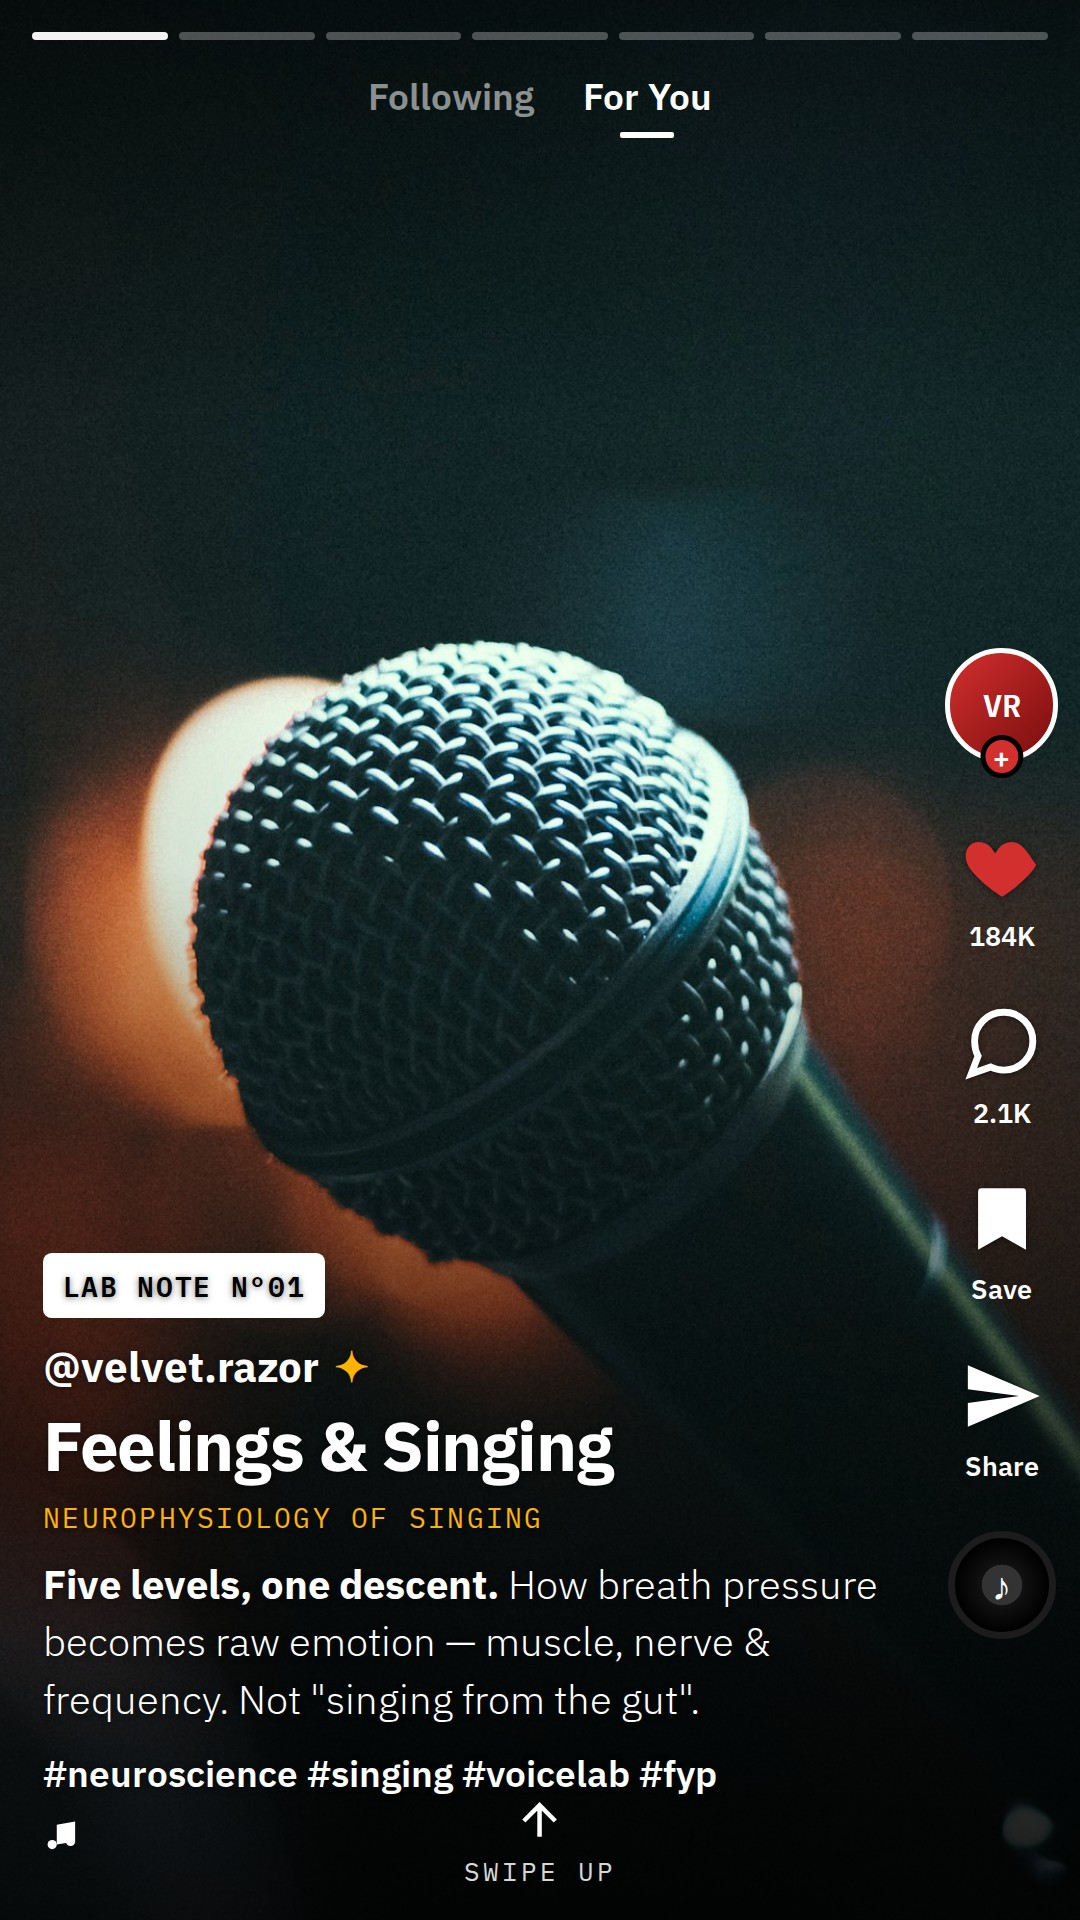
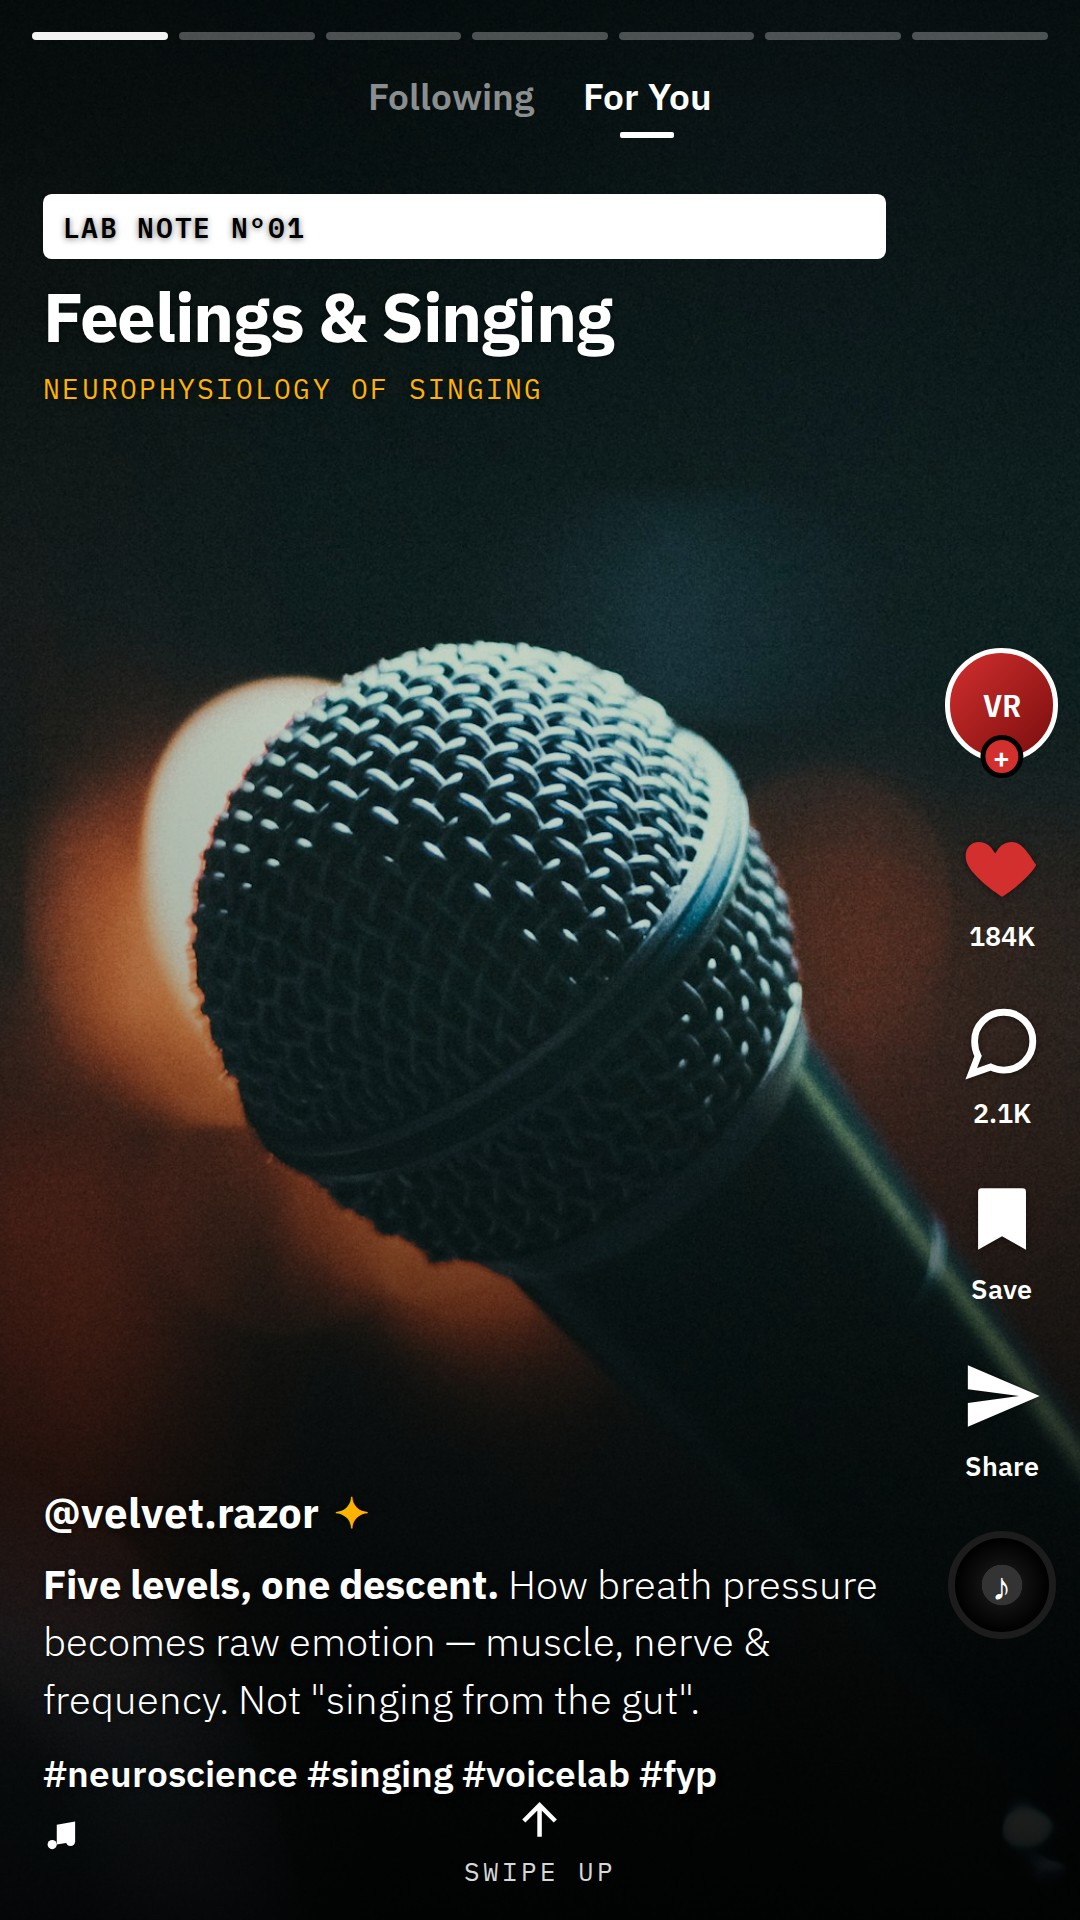
Distribute slide text vertically over full-bleed background
Split each slide caption into a top hero block (badge + title + sub) and
a bottom meta block (handle + desc + tags + music), wrapped in a flex
.overlay with space-between so content fills the whole slide height
instead of bunching at the bottom. Strengthen the mid-slide gradient for
readability of the upper text. Re-render export JPEGs.

Claude-Session: https://claude.ai/code/session_017Q2y2vkwAyKhxds5gc3Pqh

Changed region(s): [[0.0306, 0.0938, 0.825, 0.2188], [0.0611, 0.3125, 0.7333, 0.5], [0.0306, 0.625, 0.5806, 0.8125]]

diff --git a/index.html b/index.html
@@ -118,7 +118,7 @@
             inset: 0;
             z-index: 1;
             background:
-                linear-gradient(180deg, rgba(0,0,0,0.55) 0%, rgba(0,0,0,0) 22%, rgba(0,0,0,0) 45%, rgba(0,0,0,0.85) 100%),
+                linear-gradient(180deg, rgba(0,0,0,0.6) 0%, rgba(0,0,0,0.18) 30%, rgba(0,0,0,0.18) 52%, rgba(0,0,0,0.9) 100%),
                 radial-gradient(120% 60% at 80% 30%, rgba(0,0,0,0) 40%, rgba(0,0,0,0.35) 100%);
             pointer-events: none;
         }
@@ -223,13 +223,18 @@
         }
         .rail__disc::after { content: '♪'; color: #fff; font-size: 3.6cqw; }
 
-        /* --- BOTTOM CAPTION --- */
-        .caption {
+        /* --- TEXT OVERLAY: distributes content over the full slide height --- */
+        .overlay {
             position: relative;
             z-index: 20;
-            padding: 0 18cqw 6cqw 4cqw;
+            flex: 1;
+            display: flex;
+            flex-direction: column;
+            justify-content: space-between;
+            padding: 18cqw 18cqw 6cqw 4cqw;
             text-shadow: 0 1px 6px rgba(0,0,0,0.55);
         }
+        .hero, .meta { display: flex; flex-direction: column; }
 
         .badge {
             display: inline-block;
@@ -359,16 +364,20 @@
                     <div class="rail__btn"><svg viewBox="0 0 24 24" fill="#fff"><path d="M2 21l21-9L2 3v7l15 2-15 2z"/></svg><span>Share</span></div>
                     <div class="rail__disc"></div>
                 </div>
-                <div class="caption">
-                    <span class="badge">Lab Note N°01</span>
-                    <div class="handle">@velvet.razor <span class="verified">✦</span></div>
-                    <div class="title">Feelings &amp; Singing</div>
-                    <div class="sub">Neurophysiology of Singing</div>
-                    <div class="desc"><strong>Five levels, one descent.</strong> How breath pressure becomes raw emotion — muscle, nerve &amp; frequency. Not "singing from the gut".</div>
-                    <div class="tags">#neuroscience #singing #voicelab #fyp</div>
-                    <div class="music">
-                        <svg viewBox="0 0 24 24" fill="#fff"><path d="M9 18V5l12-2v13"/><circle cx="6" cy="18" r="3" fill="#fff"/><circle cx="18" cy="16" r="3" fill="#fff"/></svg>
-                        <div class="ticker"><span>original sound — The Velvet Razor · Forensic Voice Lab</span></div>
+                <div class="overlay">
+                    <div class="hero">
+                        <span class="badge">Lab Note N°01</span>
+                        <div class="title">Feelings &amp; Singing</div>
+                        <div class="sub">Neurophysiology of Singing</div>
+                    </div>
+                    <div class="meta">
+                        <div class="handle">@velvet.razor <span class="verified">✦</span></div>
+                        <div class="desc"><strong>Five levels, one descent.</strong> How breath pressure becomes raw emotion — muscle, nerve &amp; frequency. Not "singing from the gut".</div>
+                        <div class="tags">#neuroscience #singing #voicelab #fyp</div>
+                        <div class="music">
+                            <svg viewBox="0 0 24 24" fill="#fff"><path d="M9 18V5l12-2v13"/><circle cx="6" cy="18" r="3" fill="#fff"/><circle cx="18" cy="16" r="3" fill="#fff"/></svg>
+                            <div class="ticker"><span>original sound — The Velvet Razor · Forensic Voice Lab</span></div>
+                        </div>
                     </div>
                 </div>
                 <div class="swipe-hint">
@@ -390,16 +399,20 @@
                     <div class="rail__btn"><svg viewBox="0 0 24 24" fill="#fff"><path d="M2 21l21-9L2 3v7l15 2-15 2z"/></svg><span>Share</span></div>
                     <div class="rail__disc"></div>
                 </div>
-                <div class="caption">
-                    <span class="badge">Level 01 // Cortex</span>
-                    <div class="handle">@velvet.razor <span class="verified">✦</span></div>
-                    <div class="title">The Recall</div>
-                    <div class="sub">Music-Evoked Autobiographical Memory</div>
-                    <div class="desc">Old songs trigger involuntary memories. The <strong>mPFC</strong> binds sound to self — the feeling hits before you can think.</div>
-                    <div class="tags">#mpfc #memory #brain #neuroscience</div>
-                    <div class="music">
-                        <svg viewBox="0 0 24 24" fill="#fff"><path d="M9 18V5l12-2v13"/><circle cx="6" cy="18" r="3" fill="#fff"/><circle cx="18" cy="16" r="3" fill="#fff"/></svg>
-                        <div class="ticker"><span>original sound — The Velvet Razor · Forensic Voice Lab</span></div>
+                <div class="overlay">
+                    <div class="hero">
+                        <span class="badge">Level 01 // Cortex</span>
+                        <div class="title">The Recall</div>
+                        <div class="sub">Music-Evoked Autobiographical Memory</div>
+                    </div>
+                    <div class="meta">
+                        <div class="handle">@velvet.razor <span class="verified">✦</span></div>
+                        <div class="desc">Old songs trigger involuntary memories. The <strong>mPFC</strong> binds sound to self — the feeling hits before you can think.</div>
+                        <div class="tags">#mpfc #memory #brain #neuroscience</div>
+                        <div class="music">
+                            <svg viewBox="0 0 24 24" fill="#fff"><path d="M9 18V5l12-2v13"/><circle cx="6" cy="18" r="3" fill="#fff"/><circle cx="18" cy="16" r="3" fill="#fff"/></svg>
+                            <div class="ticker"><span>original sound — The Velvet Razor · Forensic Voice Lab</span></div>
+                        </div>
                     </div>
                 </div>
             </section>
@@ -417,16 +430,20 @@
                     <div class="rail__btn"><svg viewBox="0 0 24 24" fill="#fff"><path d="M2 21l21-9L2 3v7l15 2-15 2z"/></svg><span>Share</span></div>
                     <div class="rail__disc"></div>
                 </div>
-                <div class="caption">
-                    <span class="badge">Level 02 // Tissue</span>
-                    <div class="handle">@velvet.razor <span class="verified">✦</span></div>
-                    <div class="title">The Body as Instrument</div>
-                    <div class="sub">Self-Resonance · Bone Conduction</div>
-                    <div class="desc">When you sing, you <strong>are</strong> the sound. The singer's formant peaks at <strong>2.8–3.4 kHz</strong> — felt in your sternum. A layer listening can't reach.</div>
-                    <div class="tags">#resonance #boneconduction #interoception</div>
-                    <div class="music">
-                        <svg viewBox="0 0 24 24" fill="#fff"><path d="M9 18V5l12-2v13"/><circle cx="6" cy="18" r="3" fill="#fff"/><circle cx="18" cy="16" r="3" fill="#fff"/></svg>
-                        <div class="ticker"><span>original sound — The Velvet Razor · Forensic Voice Lab</span></div>
+                <div class="overlay">
+                    <div class="hero">
+                        <span class="badge">Level 02 // Tissue</span>
+                        <div class="title">The Body as Instrument</div>
+                        <div class="sub">Self-Resonance · Bone Conduction</div>
+                    </div>
+                    <div class="meta">
+                        <div class="handle">@velvet.razor <span class="verified">✦</span></div>
+                        <div class="desc">When you sing, you <strong>are</strong> the sound. The singer's formant peaks at <strong>2.8–3.4 kHz</strong> — felt in your sternum. A layer listening can't reach.</div>
+                        <div class="tags">#resonance #boneconduction #interoception</div>
+                        <div class="music">
+                            <svg viewBox="0 0 24 24" fill="#fff"><path d="M9 18V5l12-2v13"/><circle cx="6" cy="18" r="3" fill="#fff"/><circle cx="18" cy="16" r="3" fill="#fff"/></svg>
+                            <div class="ticker"><span>original sound — The Velvet Razor · Forensic Voice Lab</span></div>
+                        </div>
                     </div>
                 </div>
             </section>
@@ -444,16 +461,20 @@
                     <div class="rail__btn"><svg viewBox="0 0 24 24" fill="#fff"><path d="M2 21l21-9L2 3v7l15 2-15 2z"/></svg><span>Share</span></div>
                     <div class="rail__disc"></div>
                 </div>
-                <div class="caption">
-                    <span class="badge">Level 03 // Autonomic</span>
-                    <div class="handle">@velvet.razor <span class="verified">✦</span></div>
-                    <div class="title">The Nerve of Rest</div>
-                    <div class="sub">Vagus Nerve · Parasympathetic Tone</div>
-                    <div class="desc">Every sung phrase stimulates the <strong>vagus nerve</strong>. HRV up, cortisol down. The body reads "safe" — and drops its guard.</div>
-                    <div class="tags">#vagusnerve #hrv #regulation #calm</div>
-                    <div class="music">
-                        <svg viewBox="0 0 24 24" fill="#fff"><path d="M9 18V5l12-2v13"/><circle cx="6" cy="18" r="3" fill="#fff"/><circle cx="18" cy="16" r="3" fill="#fff"/></svg>
-                        <div class="ticker"><span>original sound — The Velvet Razor · Forensic Voice Lab</span></div>
+                <div class="overlay">
+                    <div class="hero">
+                        <span class="badge">Level 03 // Autonomic</span>
+                        <div class="title">The Nerve of Rest</div>
+                        <div class="sub">Vagus Nerve · Parasympathetic Tone</div>
+                    </div>
+                    <div class="meta">
+                        <div class="handle">@velvet.razor <span class="verified">✦</span></div>
+                        <div class="desc">Every sung phrase stimulates the <strong>vagus nerve</strong>. HRV up, cortisol down. The body reads "safe" — and drops its guard.</div>
+                        <div class="tags">#vagusnerve #hrv #regulation #calm</div>
+                        <div class="music">
+                            <svg viewBox="0 0 24 24" fill="#fff"><path d="M9 18V5l12-2v13"/><circle cx="6" cy="18" r="3" fill="#fff"/><circle cx="18" cy="16" r="3" fill="#fff"/></svg>
+                            <div class="ticker"><span>original sound — The Velvet Razor · Forensic Voice Lab</span></div>
+                        </div>
                     </div>
                 </div>
             </section>
@@ -471,16 +492,20 @@
                     <div class="rail__btn"><svg viewBox="0 0 24 24" fill="#fff"><path d="M2 21l21-9L2 3v7l15 2-15 2z"/></svg><span>Share</span></div>
                     <div class="rail__disc"></div>
                 </div>
-                <div class="caption">
-                    <span class="badge">Level 04 // Control</span>
-                    <div class="handle">@velvet.razor <span class="verified">✦</span></div>
-                    <div class="title">Relinquishing Control</div>
-                    <div class="sub">Transient Hypofrontality</div>
-                    <div class="desc">Letting go down-regulates the prefrontal cortex → <strong>transient hypofrontality</strong>. The inner censor goes offline; the body takes over.</div>
-                    <div class="tags">#flowstate #hypofrontality #letgo</div>
-                    <div class="music">
-                        <svg viewBox="0 0 24 24" fill="#fff"><path d="M9 18V5l12-2v13"/><circle cx="6" cy="18" r="3" fill="#fff"/><circle cx="18" cy="16" r="3" fill="#fff"/></svg>
-                        <div class="ticker"><span>original sound — The Velvet Razor · Forensic Voice Lab</span></div>
+                <div class="overlay">
+                    <div class="hero">
+                        <span class="badge">Level 04 // Control</span>
+                        <div class="title">Relinquishing Control</div>
+                        <div class="sub">Transient Hypofrontality</div>
+                    </div>
+                    <div class="meta">
+                        <div class="handle">@velvet.razor <span class="verified">✦</span></div>
+                        <div class="desc">Letting go down-regulates the prefrontal cortex → <strong>transient hypofrontality</strong>. The inner censor goes offline; the body takes over.</div>
+                        <div class="tags">#flowstate #hypofrontality #letgo</div>
+                        <div class="music">
+                            <svg viewBox="0 0 24 24" fill="#fff"><path d="M9 18V5l12-2v13"/><circle cx="6" cy="18" r="3" fill="#fff"/><circle cx="18" cy="16" r="3" fill="#fff"/></svg>
+                            <div class="ticker"><span>original sound — The Velvet Razor · Forensic Voice Lab</span></div>
+                        </div>
                     </div>
                 </div>
             </section>
@@ -498,16 +523,20 @@
                     <div class="rail__btn"><svg viewBox="0 0 24 24" fill="#fff"><path d="M2 21l21-9L2 3v7l15 2-15 2z"/></svg><span>Share</span></div>
                     <div class="rail__disc"></div>
                 </div>
-                <div class="caption">
-                    <span class="badge red">Level 05 // Core</span>
-                    <div class="handle">@velvet.razor <span class="verified">✦</span></div>
-                    <div class="title">The Wall Breach</div>
-                    <div class="sub">Convergence · Catharsis · Discharge</div>
-                    <div class="desc">Safety + resonance + censor off + memory unlocked = <strong>the walls break</strong>. Singing bypasses the verbal filter. The barrier tears: tears, release.</div>
-                    <div class="tags">#catharsis #emotion #breakthrough</div>
-                    <div class="music">
-                        <svg viewBox="0 0 24 24" fill="#fff"><path d="M9 18V5l12-2v13"/><circle cx="6" cy="18" r="3" fill="#fff"/><circle cx="18" cy="16" r="3" fill="#fff"/></svg>
-                        <div class="ticker"><span>original sound — The Velvet Razor · Forensic Voice Lab</span></div>
+                <div class="overlay">
+                    <div class="hero">
+                        <span class="badge red">Level 05 // Core</span>
+                        <div class="title">The Wall Breach</div>
+                        <div class="sub">Convergence · Catharsis · Discharge</div>
+                    </div>
+                    <div class="meta">
+                        <div class="handle">@velvet.razor <span class="verified">✦</span></div>
+                        <div class="desc">Safety + resonance + censor off + memory unlocked = <strong>the walls break</strong>. Singing bypasses the verbal filter. The barrier tears: tears, release.</div>
+                        <div class="tags">#catharsis #emotion #breakthrough</div>
+                        <div class="music">
+                            <svg viewBox="0 0 24 24" fill="#fff"><path d="M9 18V5l12-2v13"/><circle cx="6" cy="18" r="3" fill="#fff"/><circle cx="18" cy="16" r="3" fill="#fff"/></svg>
+                            <div class="ticker"><span>original sound — The Velvet Razor · Forensic Voice Lab</span></div>
+                        </div>
                     </div>
                 </div>
             </section>
@@ -525,16 +554,20 @@
                     <div class="rail__btn"><svg viewBox="0 0 24 24" fill="#fff"><path d="M2 21l21-9L2 3v7l15 2-15 2z"/></svg><span>Share</span></div>
                     <div class="rail__disc"></div>
                 </div>
-                <div class="caption">
-                    <span class="badge gold">Lab Note N°02</span>
-                    <div class="handle">@velvet.razor <span class="verified">✦</span></div>
-                    <div class="title">The Queue &amp; The Seam</div>
-                    <div class="sub">Speech-Motorics · Latency · ADHD</div>
-                    <div class="desc">Syllables queue in a buffer. A <strong>50–150 ms</strong> gap sits between thinking and forming a word — normally erased. <strong>In ADHD</strong> the seam becomes audible.</div>
-                    <div class="tags">#adhd #speech #latency #neurodivergent</div>
-                    <div class="music">
-                        <svg viewBox="0 0 24 24" fill="#fff"><path d="M9 18V5l12-2v13"/><circle cx="6" cy="18" r="3" fill="#fff"/><circle cx="18" cy="16" r="3" fill="#fff"/></svg>
-                        <div class="ticker"><span>original sound — The Velvet Razor · Forensic Voice Lab</span></div>
+                <div class="overlay">
+                    <div class="hero">
+                        <span class="badge gold">Lab Note N°02</span>
+                        <div class="title">The Queue &amp; The Seam</div>
+                        <div class="sub">Speech-Motorics · Latency · ADHD</div>
+                    </div>
+                    <div class="meta">
+                        <div class="handle">@velvet.razor <span class="verified">✦</span></div>
+                        <div class="desc">Syllables queue in a buffer. A <strong>50–150 ms</strong> gap sits between thinking and forming a word — normally erased. <strong>In ADHD</strong> the seam becomes audible.</div>
+                        <div class="tags">#adhd #speech #latency #neurodivergent</div>
+                        <div class="music">
+                            <svg viewBox="0 0 24 24" fill="#fff"><path d="M9 18V5l12-2v13"/><circle cx="6" cy="18" r="3" fill="#fff"/><circle cx="18" cy="16" r="3" fill="#fff"/></svg>
+                            <div class="ticker"><span>original sound — The Velvet Razor · Forensic Voice Lab</span></div>
+                        </div>
                     </div>
                 </div>
             </section>
